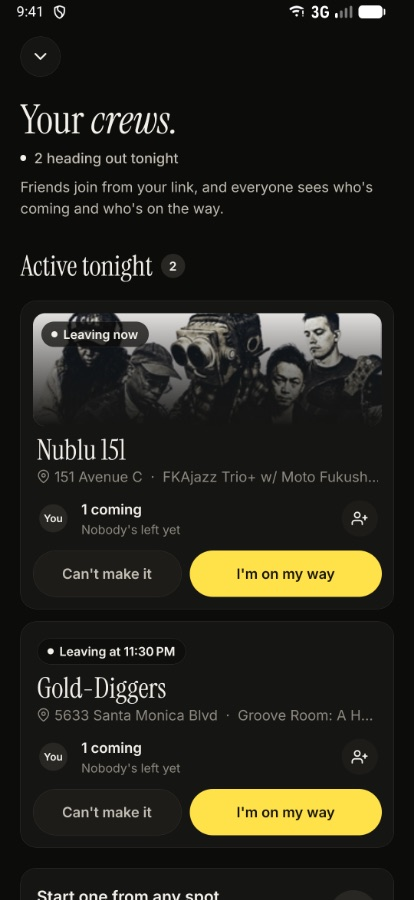
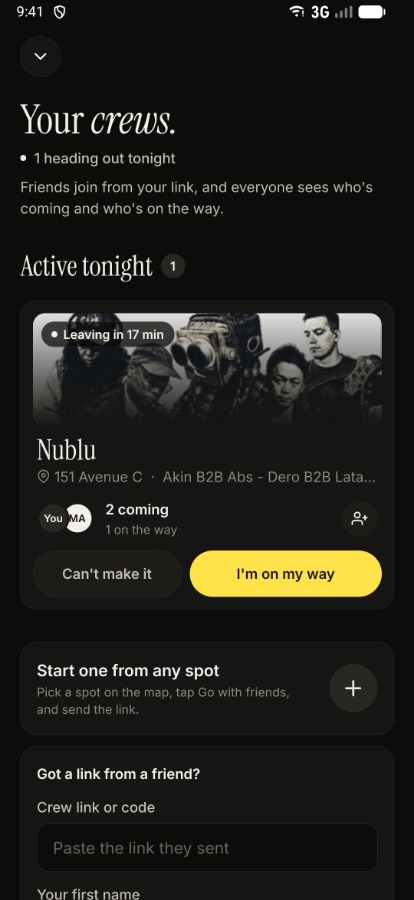
Download page: fresh Ride there and Head out together shots (current app, Nublu); soft fade at the bottom of each screen

diff --git a/site/index.html b/site/index.html
@@ -96,6 +96,8 @@
   .screens { display: grid; grid-template-columns: repeat(4, minmax(0, 1fr)); gap: 16px; }
   figure { margin: 0; display: grid; gap: 12px; align-content: start; min-width: 0; }
   figure img { width: 100%; border-radius: 12px; border: 1px solid var(--line); }
+  /* Screens end where the phone does; fade the last few percent so a cut-off row dissolves. */
+  .screens figure img { -webkit-mask-image: linear-gradient(#000 95%, transparent); mask-image: linear-gradient(#000 95%, transparent); }
   figcaption { font-size: 16px; color: var(--ink-2); }
   figcaption b { display: block; color: var(--ink); font-weight: 600; }
 
@@ -172,9 +174,9 @@
     <div class="screens">
       <figure><img src="shot-map-la.jpg" alt="Los Angeles tonight: numbered bubbles across the city, a bubble ringed for a Yelo partner, and a card for Gold-Diggers at 10 PM" loading="lazy" width="414" height="900">
         <figcaption><b>One map for the night</b>New York and Los Angeles, refreshed every few minutes and grouped so the map stays readable.</figcaption></figure>
-      <figure><img src="shot-spot.jpg" alt="Nublu 151 tonight at 7 PM, 1 mile away: 2 going including you, your crew leaving in a minute, and Ride with Yelo for about $9" loading="lazy" width="414" height="900">
+      <figure><img src="shot-spot.jpg" alt="Nublu tonight at 10 PM, a Yelo partner: 2 going including you, your crew leaving in 17 minutes with Maya on the way, and Ride with Yelo" loading="lazy" width="414" height="900">
         <figcaption><b>Ride there</b>Each spot shows the time, the address, the price, who's going, and a ride button.</figcaption></figure>
-      <figure><img src="shot-crew.jpg" alt="Your crews tonight: Nublu 151 leaving now and Gold-Diggers leaving at 11:30 PM, each with who's coming, an invite button, Can't make it and I'm on my way" loading="lazy" width="414" height="900">
+      <figure><img src="shot-crew.jpg" alt="Your crews: Nublu, leaving in 17 minutes, 2 coming and 1 on the way, with Can\'t make it and I\'m on my way; below, start a crew or join one from a link" loading="lazy" width="414" height="900">
         <figcaption><b>Head out together</b>Start a crew, send the link, and see who's coming and who's on the way.</figcaption></figure>
       <figure><img src="shot-rooms.jpg" alt="Rooms page listing venues worth pitching, with quiet nights" loading="lazy" width="414" height="900">
         <figcaption><b>Rooms worth pitching</b>Venues that could host a Yelo night, with capacity, a quiet weeknight and a contact.</figcaption></figure>
